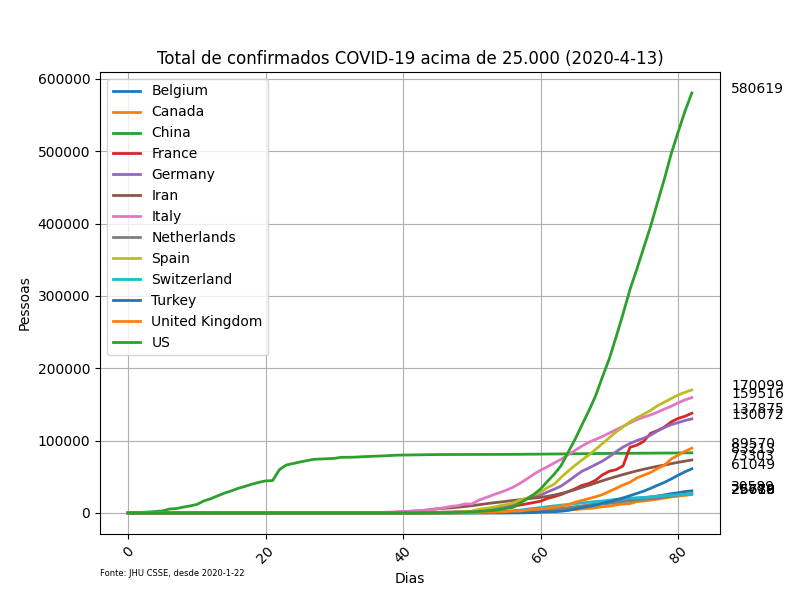
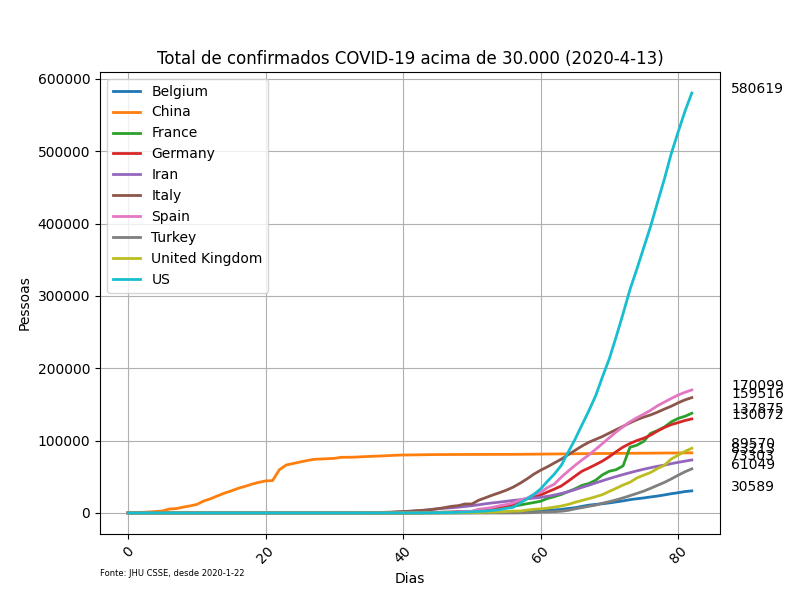
Update 14042020

diff --git a/coronaplot.py b/coronaplot.py
@@ -122,7 +122,7 @@ def overall_cases(log=False):
 
 
 	# Superior limit of cases to plot
-	limit = 25000
+	limit = 30000
 	print ("Generating graph Overall Confirmed")
 
 	pyplot.figure(figsize=(8,6),facecolor = 'black', dpi=100)
@@ -162,7 +162,7 @@ def overall_cases(log=False):
 		suffix = "_log"
 	else:
 		suffix = ""
-	pyplot.title('Total de confirmados COVID-19 acima de 25.000 ('+lastday+')')
+	pyplot.title('Total de confirmados COVID-19 acima de 30.000 ('+lastday+')')
 	pyplot.xlabel('Dias')
 	pyplot.ylabel('Pessoas')
 	pyplot.annotate('Fonte: JHU CSSE, desde '+dayzero, (0,0), (0,-25), fontsize=6, xycoords='axes fraction', textcoords='offset points', va='top')
@@ -175,9 +175,9 @@ def overall_cases(log=False):
 
 
 def main():
-	per_country_cases(True)
+	#per_country_cases(True)
 	overall_cases(True)        
-	per_country_cases(False)
+	#per_country_cases(False)
 	overall_cases(False)       
 
 if __name__== "__main__":
